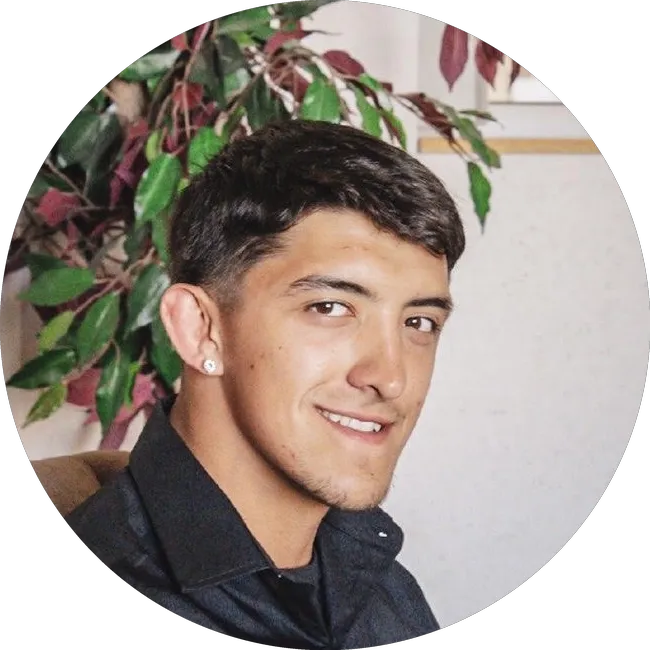
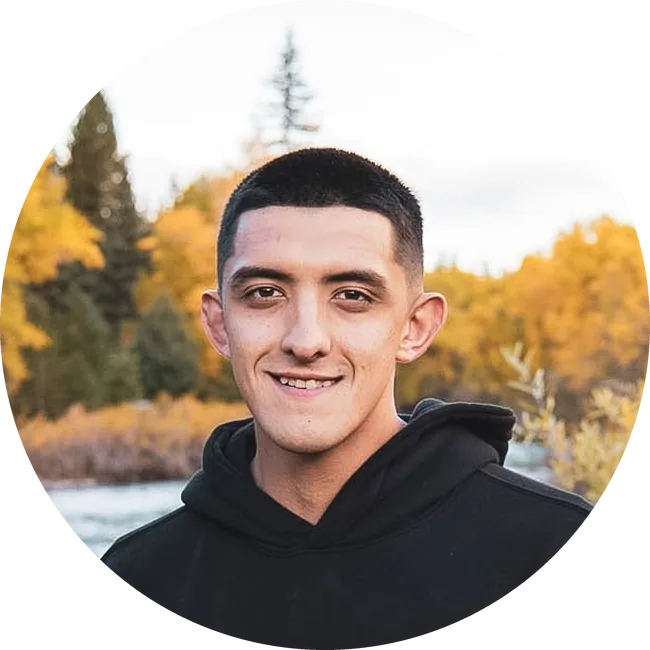
Replace the headshot and give the Lobby a split hero with a portrait (#60)
New headshot, cropped from the autumn river photo, with the social
preview regenerated from it. The Lobby hero becomes the split layout
from the banner mockup (option 1b): text left, a 3:4 portrait right on
lg+ that meets the nav rule, full width above the text on phones, with
the location on an ivory tag. The portrait comes from a new optional
identity.portrait in profile.json, validated like identity.photo; without
it the Lobby keeps the round photo.

diff --git a/system/templates/pages/indextemplate.html b/system/templates/pages/indextemplate.html
@@ -50,6 +50,15 @@
         transition: transform 1s cubic-bezier(0.2, 0.8, 0.2, 1);
     }
 
+    /* === HERO PORTRAIT ===
+       3:4 on phones, where it runs full width above the text; on lg+ a
+       fixed 560px tall column (handoff-banner mockup 1b), which the grid
+       stretches the text column against. */
+    .hero-portrait { aspect-ratio: 3 / 4; max-height: 80vh; }
+    @media (min-width: 1024px) {
+        .hero-portrait { aspect-ratio: auto; max-height: none; height: 560px; margin-top: -4rem; }
+    }
+
     /* === HERO NAME ===
        Gradient + glow only. This used to also carry a hover letter-scramble;
        scrambling a person's own name read as a gimmick on a professional
@@ -100,7 +109,28 @@
 {% set toolkit = (config.tech_stack or []) | rejectattr('draft') | list %}
 
 {% block content %}
+   {# Split hero (handoff-banner mockup, option 1b): text left, the 3:4
+      portrait right on lg+, bottom-aligned so the buttons sit level with the
+      photo's foot. The portrait cancels the 4rem of breathing room in
+      .nav-offset so it meets the nav rule; on phones it also cancels main's
+      px-6 and runs edge to edge above the text. identity.portrait is
+      optional: without it the round identity.photo sits beside the name as
+      before, and with neither the hero is text only. #}
+   {% set portrait = profile.identity.portrait if profile else None %}
    <header class="mb-16 relative" data-reveal>
+    <div class="flex flex-col lg:grid lg:grid-cols-[minmax(0,1fr)_360px] xl:grid-cols-[minmax(0,1fr)_420px] lg:gap-16 lg:items-end">
+        {% if portrait %}
+        <figure class="hero-portrait relative overflow-hidden bg-aurelia-border -mx-6 -mt-16 mb-10 lg:m-0 lg:order-2 lg:self-stretch">
+            <img src="{{ portrait.src }}" alt="{{ portrait.alt }}"
+                 width="840" height="1120" loading="eager" fetchpriority="high" decoding="async"
+                 class="absolute inset-0 w-full h-full object-cover object-[50%_30%]">
+            {% if profile.identity.location %}
+            <figcaption class="absolute left-0 bottom-0 bg-aurelia-bg px-3.5 py-2.5 field-label text-aurelia-muted">{{ profile.identity.location }}</figcaption>
+            {% endif %}
+        </figure>
+        {% endif %}
+
+        <div class="min-w-0 lg:order-1{% if portrait %} lg:pb-16{% endif %}">
         <div class="field-label text-aurelia-primary mb-5 flex items-center gap-2.5 flex-wrap">
             <span class="inline-flex items-center gap-2 border border-aurelia-primary/40 bg-aurelia-primary/10 px-2.5 py-1 rounded-theme">
                 <span class="w-1.5 h-1.5 rounded-full bg-aurelia-primary shadow-[0_0_8px_currentColor]"></span>
@@ -108,11 +138,10 @@
             </span>
         </div>
 
-        {# Photo to the right of the hero name/tagline on md+, vertically
-           centered against the two-line block; above the text on mobile,
-           since it's last in document order and flex-col-reverse puts the
-           last child first. Optional -- see abouttemplate.html's header for
-           the same guard and the same reasoning. #}
+        {# Round photo to the right of the hero name/tagline on md+, used only
+           when there is no portrait. Above the text on mobile, since it's
+           last in document order and flex-col-reverse puts the last child
+           first. See abouttemplate.html's header for the same guard. #}
         <div class="flex flex-col-reverse md:flex-row md:items-center gap-8 md:gap-10 max-w-5xl">
             <div class="flex-1 min-w-0">
                 <h1 class="display-xl text-aurelia-text mb-7">
@@ -123,7 +152,7 @@
                     {{ site.get('tagline', config.author.bio_short) }}
                 </p>
             </div>
-            {% if profile and profile.identity.photo %}
+            {% if not portrait and profile and profile.identity.photo %}
             <img src="{{ profile.identity.photo.src }}" alt="{{ profile.identity.photo.alt }}"
                  width="650" height="650" decoding="async"
                  class="w-28 h-28 md:w-40 md:h-40 rounded-full shrink-0 border border-aurelia-border object-cover mx-auto md:mx-0">
@@ -157,6 +186,8 @@
                 <kbd class="kbd hidden sm:inline">&#8984;K</kbd>
             </button>
         </div>
+        </div>
+    </div>
     </header>
 
     <div class="grid grid-cols-1 md:grid-cols-2 lg:grid-cols-3 gap-6 w-full items-stretch">

diff --git a/engine/profile.py b/engine/profile.py
@@ -168,7 +168,7 @@ _TOP_LEVEL_KEYS = {
     "projects", "links", "meta",
 }
 
-_IDENTITY_ALLOWED = {"name", "headline", "location", "summary", "pronouns", "photo"}
+_IDENTITY_ALLOWED = {"name", "headline", "location", "summary", "pronouns", "photo", "portrait"}
 _IDENTITY_REQUIRED = {"name", "headline", "location", "summary"}
 _IDENTITY_SPECS = {
     "name": (80, False),
@@ -180,6 +180,8 @@ _IDENTITY_SPECS = {
 
 # identity.photo is optional, but when present both keys are required --
 # there is no such thing as an image with no alt text on a published page.
+# identity.portrait (the Lobby hero's 3:4 photo) takes the same shape and the
+# same checks; without it the Lobby falls back to the round photo.
 _PHOTO_ALLOWED = {"src", "alt"}
 _PHOTO_REQUIRED = {"src", "alt"}
 
@@ -264,8 +266,9 @@ def _validate_identity(value, path, root):
     for field, (max_len, multiline) in _IDENTITY_SPECS.items():
         if field in value:
             _check_str(value[field], _join(path, field), max_len, multiline)
-    if "photo" in value:
-        _validate_photo(value["photo"], _join(path, "photo"), root)
+    for field in ("photo", "portrait"):
+        if field in value:
+            _validate_photo(value[field], _join(path, field), root)
 
 
 def _validate_roles(value, path):
@@ -370,8 +373,8 @@ def validate_profile(data, root=None):
     depth and never coerces types -- a bool or int where a string is
     expected is an error, not a silent cast.
 
-    `root`, when given, additionally verifies that identity.photo.src (if
-    present) resolves to a real file under <root>/assets/images -- see
+    `root`, when given, additionally verifies that identity.photo.src and
+    identity.portrait.src (if present) resolve to a real file under <root>/assets/images -- see
     _photo_file_exists. Pass None (the default) to skip that filesystem
     check and validate shape only, which is what every existing caller and
     test does; load_profile() always passes ROOT_DIR, since a photo the

diff --git a/tests/test_profile.py b/tests/test_profile.py
@@ -255,6 +255,30 @@ def test_repo_profile_photo_exists():
     assert os.path.isfile(resolved)
 
 
+# identity.portrait shares _validate_photo with identity.photo, so these only
+# pin that it is routed through the same checks under its own path.
+
+def test_portrait_requires_alt():
+    profile = minimal_profile()
+    profile["identity"]["portrait"] = {"src": "assets/images/x.webp"}
+    with pytest.raises(ProfileError, match=r"identity\.portrait\.alt"):
+        validate_profile(profile)
+
+
+def test_portrait_rejects_bad_src():
+    profile = minimal_profile()
+    profile["identity"]["portrait"] = {"src": "https://evil.example/x.webp", "alt": "A photo"}
+    with pytest.raises(ProfileError, match=r"identity\.portrait\.src"):
+        validate_profile(profile)
+
+
+def test_portrait_missing_file_raises(tmp_path):
+    profile = minimal_profile()
+    profile["identity"]["portrait"] = {"src": "assets/images/nope.webp", "alt": "A photo"}
+    with pytest.raises(ProfileError, match="photo not found"):
+        validate_profile(profile, root=str(tmp_path))
+
+
 # --- person_jsonld -----------------------------------------------------
 
 def test_person_jsonld_sameas_excludes_mailto():

diff --git a/tests/test_lobby.py b/tests/test_lobby.py
@@ -144,6 +144,22 @@ def test_lobby_renders_headshot_when_present():
     assert 'width="650" height="650"' in header
 
 
+def test_lobby_portrait_replaces_round_headshot():
+    # Split hero (handoff-banner mockup 1b): with a portrait the hero shows it
+    # with the location tag, eager and high priority, and drops the round
+    # photo (which the About page still uses).
+    profile = make_profile()
+    profile["identity"] = dict(profile["identity"])
+    profile["identity"]["photo"] = {"src": "assets/images/headshot.webp", "alt": "Ada Lovelace, portrait"}
+    profile["identity"]["portrait"] = {"src": "assets/images/hero-portrait.webp", "alt": "Ada Lovelace by a river"}
+    html = render_index(profile=profile)
+    header = html[html.index("<header"):html.index("</header>")]
+    assert '<img src="assets/images/hero-portrait.webp" alt="Ada Lovelace by a river"' in header
+    assert 'loading="eager" fetchpriority="high"' in header
+    assert "<figcaption" in header and "London, UK" in header
+    assert "headshot.webp" not in header
+
+
 def test_lobby_without_photo_has_no_hero_img():
     html = render_index()
     header = html[html.index("<header"):html.index("</header>")]

diff --git a/docs/ARCHITECTURE.md b/docs/ARCHITECTURE.md
@@ -105,12 +105,15 @@ around `from engine.pipeline import build_all`). All real logic lives in `engine
   empty directories, so the placeholders an earlier revision of this file described are gone);
   the only tracked assets are `assets/css`, `assets/js`, five
   flashcard CSVs at the **repo root** in `assets/flashcards/` — which is why `resolve_asset()`'s
-  ROOT_DIR fallback is load-bearing rather than vestigial — and two site images in
-  `assets/images/` added 2026-09-07 — `headshot.webp`
-  (650×650, 43 KB, no EXIF/XMP; referenced by `profile.json`'s optional `identity.photo` and
-  validated by `engine/profile.py` as a real file under `assets/images/`) and
-  `social-preview.jpg` (1200×630, the `og:image`, generated from the headshot with ffmpeg on
-  TIMBERLINE's paper color). All Gemini Notebook audio and mind-map images were removed from the repo *and its
+  ROOT_DIR fallback is load-bearing rather than vestigial — and three site images in
+  `assets/images/` — `headshot.webp` (added 2026-09-07)
+  (650×650, 31 KB, no EXIF/XMP, replaced 2026-10-19 with a crop of the autumn river photo; referenced by `profile.json`'s optional `identity.photo` and
+  validated by `engine/profile.py` as a real file under `assets/images/`),
+  `social-preview.jpg` (1200×630, the `og:image`, generated from the headshot on
+  TIMBERLINE's paper color, with ffmpeg at first and with Pillow since 2026-10-19), and
+  `hero-portrait.webp` (840×1120, 3:4, added 2026-10-19: the Lobby's split hero, from
+  `profile.json`'s optional `identity.portrait`, which takes `identity.photo`'s shape and checks;
+  without it the Lobby shows the round photo). All Gemini Notebook audio and mind-map images were removed from the repo *and its
   history* in 2026 (see docs/DECISIONS.md item 9). The 16 references were deleted from the 9 notes
   that named them in commit 370e8eb (2026-09-10), and the build now prints no media warning; if the
   warning ever returns it means a note names an asset that is not in `vault/assets/` or repo-root
